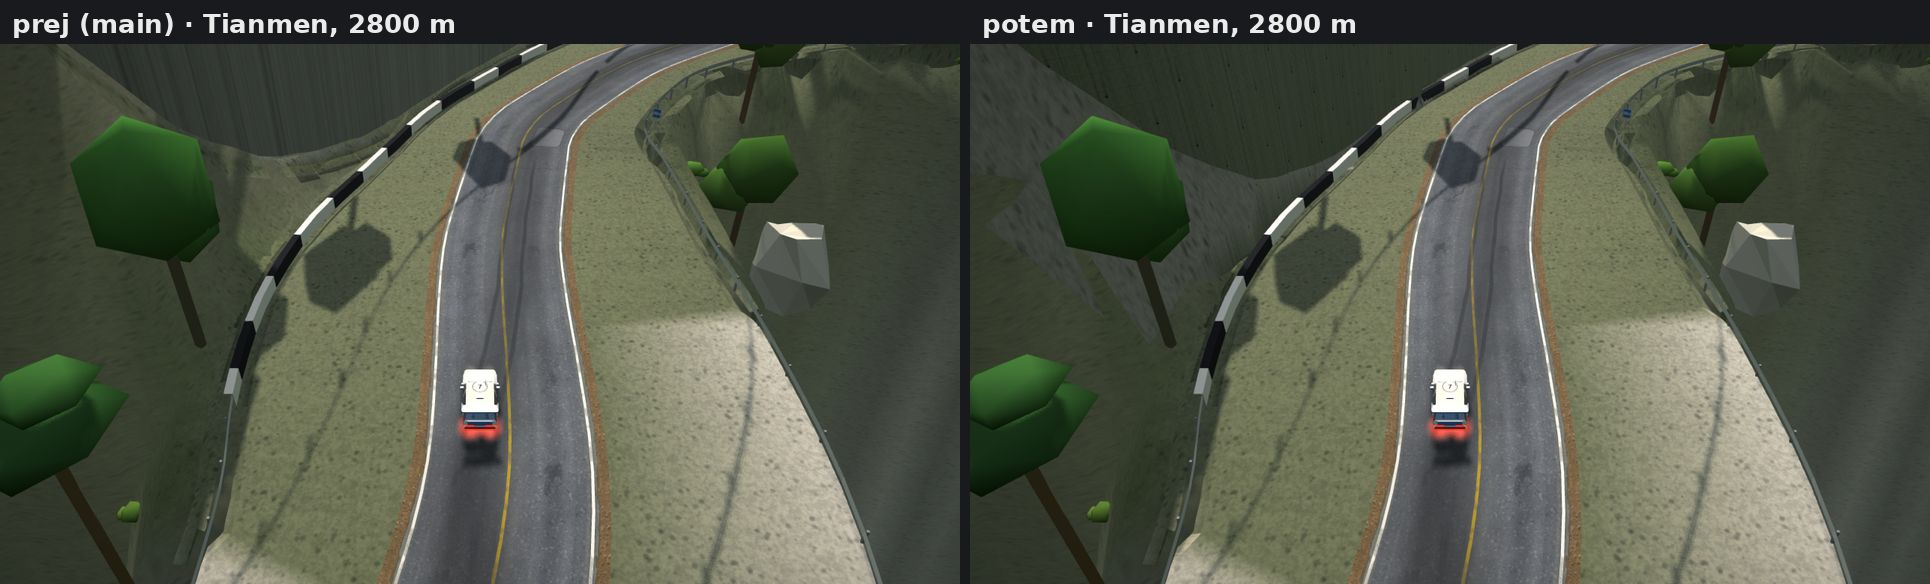
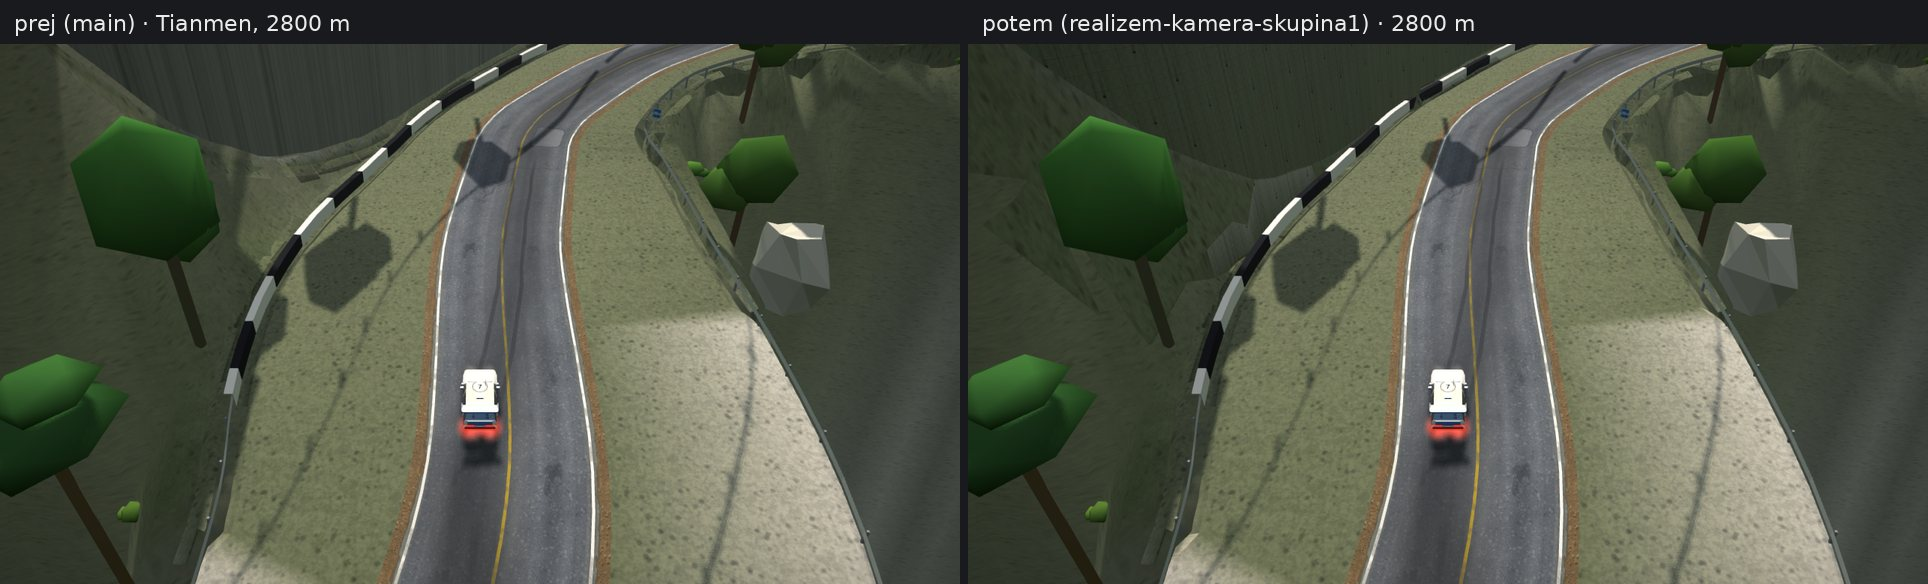
Realizem kamera, skupina 1: Tianmen, brežina pod krakom pri 1500 m porasla (skala samo po ESA WorldCover); OSM: tam ni mostu ne prepusta
- slopeCol: skala samo, kjer jo kaže ESA WorldCover; drugod je nasip porasel, kamni le v lisah na najbolj strmih delih
- slike prej/potem 300, 1500 in 2800 m (docs/realizem/kamera1-tianmen-*.jpg)
- tests/golden/perf.json vrnjen na main (Tianmen 213 klicev / 630 tisoč oglišč je v meji testa)

Claude-Session: https://claude.ai/code/session_01WbgGztya2ucgYb5o47ULLp

Changed region(s): [[0.4979, 0.0, 0.778, 0.0616], [0.0, 0.0, 0.249, 0.0616]]

diff --git a/js/world-realizem1.js b/js/world-realizem1.js
@@ -183,7 +183,8 @@
       R = lerp(R, 0.47, fld * 0.5); G = lerp(G, 0.5, fld * 0.5); B = lerp(B, 0.27, fld * 0.5);
       const lit = sstep(0.55, 0.85, c1) * 0.5; R = lerp(R, 0.34, lit); G = lerp(G, 0.37, lit); B = lerp(B, 0.19, lit);
       R += (f - 0.5) * 0.08; G += (f - 0.5) * 0.09; B += (f - 0.5) * 0.05;
-      const rk = Math.max(clamp(sstep(1.3, 2.3, m) * 0.8 + sstep(0.6, 0.85, P.c2(x, z)) * 0.45, 0, 0.85), lc(x, z, 2) * 0.8);
+      // (the rock where the land cover has it, ESA WorldCover; elsewhere a fill below the road is overgrown, only its steepest stretches show stones in patches)
+      const rk = Math.max(sstep(1.9, 2.3, m) * sstep(0.6, 0.85, P.c2(x, z)) * 0.35, lc(x, z, 2) * 0.8);
       if (rk > 0) { const k = 0.8 + 0.25 * P.n2(x * 0.6, z * 0.6); R = lerp(R, 0.66 * k, rk); G = lerp(G, 0.65 * k, rk); B = lerp(B, 0.61 * k, rk); }
       if (t < 0.18) { const g = (0.18 - t) / 0.18 * 0.55; R = lerp(R, 0.5, g); G = lerp(G, 0.48, g); B = lerp(B, 0.43, g); }
       return [R, G, B]; };

diff --git a/docs/realizem.md b/docs/realizem.md
@@ -246,7 +246,7 @@ V vrsti so pred novimi progami (vrstice v »Načrtovano«, `docs/vrsta.md`), E p
 | Načrt in odločitve | `docs/realizem-paketi`, #540 | potrjen 8. 11. 2026; ta dokument |
 | E0, prvi kos: obraba asfalta in črte | `realizem/e0-crte-asfalt` | končano 10. 11. 2026; uporabnikov »ok« na slikah (`docs/realizem/e0-*.jpg`) 10. 11. ob ~03.30, na `main` od 11. 11. 2026 s PR #622 (squash `244f7cd7`); jure.kopac26, odločitev uporabnika 10. 11. 2026 ob ~01.40 v pogovoru z Matejem, izbira »Cesta in predmeti E0«; opis v razdelku »E0, prvi kos« |
 | E0, drugi kos: rob ceste, oznake čez cesto, Pikes Peak | `realizem/e0-crte-asfalt` (isti PR #622, ločeni commiti) | končano 10. 11. 2026, uporabnikov »ok« na slikah (`docs/realizem/e0-rob.jpg`, `e0-oznake.jpg`, `e0-pikes.jpg`) 10. 11. ob ~12.30; na `main` od 11. 11. 2026 s PR #622 (squash `244f7cd7`); opis v razdelku »E0, drugi kos« |
-| Kamera za avtom, skupina 1 (Nürburg, Pikes Peak, Tianmen): Tianmen | `realizem-kamera-skupina1`, #798 | osnutek 19. 11. 2026: pod naloženimi kraki betonski oporni zid in brežina do terena namesto do 126 m visokih golih sten (`js/world-realizem1.js`, slike `docs/realizem/kamera1-tianmen-*.jpg`); Nürburg in Pikes Peak še nista začeta, odprt ostaja nasip nad grapo pri 1500 m (vzorci 1556–1574). |
+| Kamera za avtom, skupina 1 (Nürburg, Pikes Peak, Tianmen): Tianmen | `realizem-kamera-skupina1`, #798 | osnutek 19. 11. 2026: pod naloženimi kraki betonski oporni zid in brežina do terena namesto do 126 m visokih golih sten (`js/world-realizem1.js`, slike `docs/realizem/kamera1-tianmen-*.jpg`); nasip nad grapo pri 1500 m (vzorci 1556–1574) porasel, skala samo po ESA WorldCover (OSM: tam ni mostu ne prepusta); Nürburg brez spremembe (bregovi v `nrH`, `js/world.js`), Pikes Peak še ni začet. |
 | E0 (ostalo), E1–E4, S0–S2, G0–G4, P1–P6 | `realizem/<korak>` | čaka na tedenski načrt (pon. 9. 11.); E prvi, E1 najprej slike na strani Odločitve; P po #460, #480 in #516 |
 
 ## Viri
